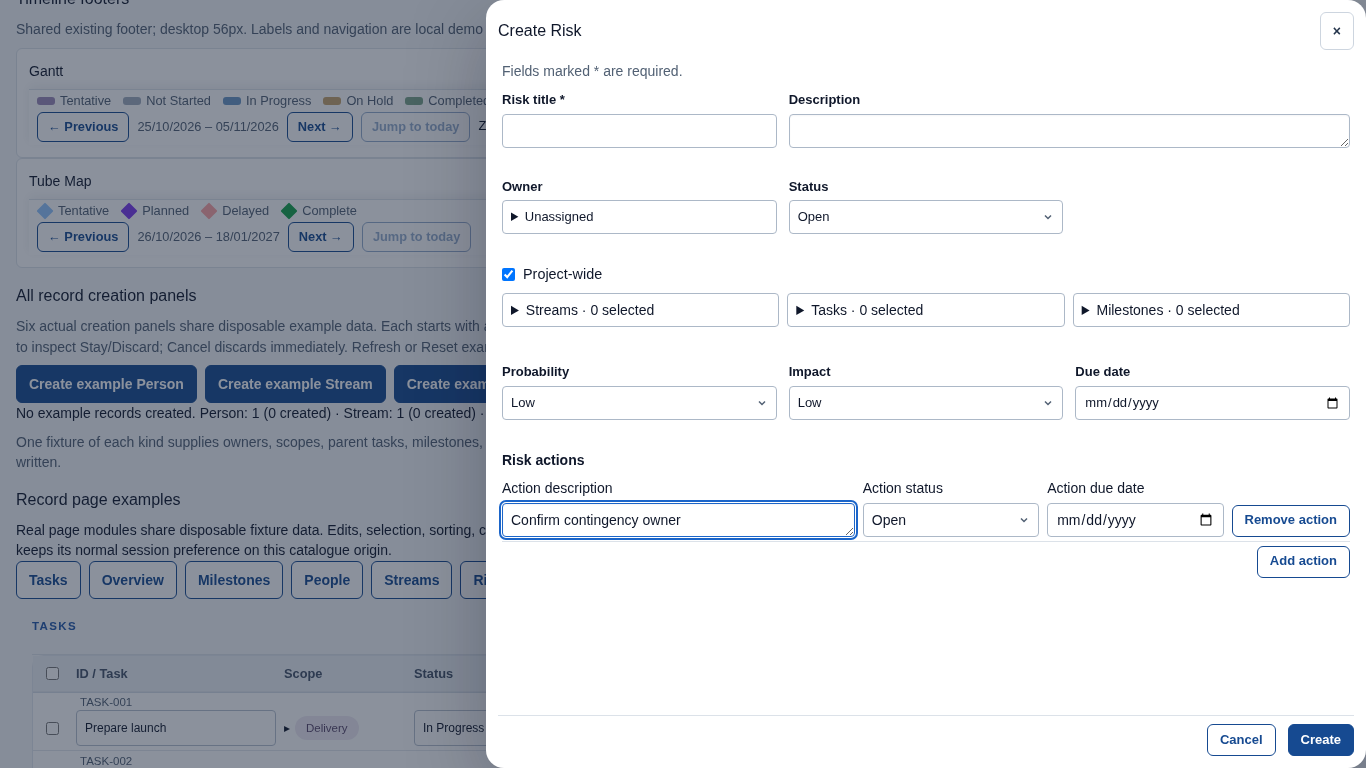
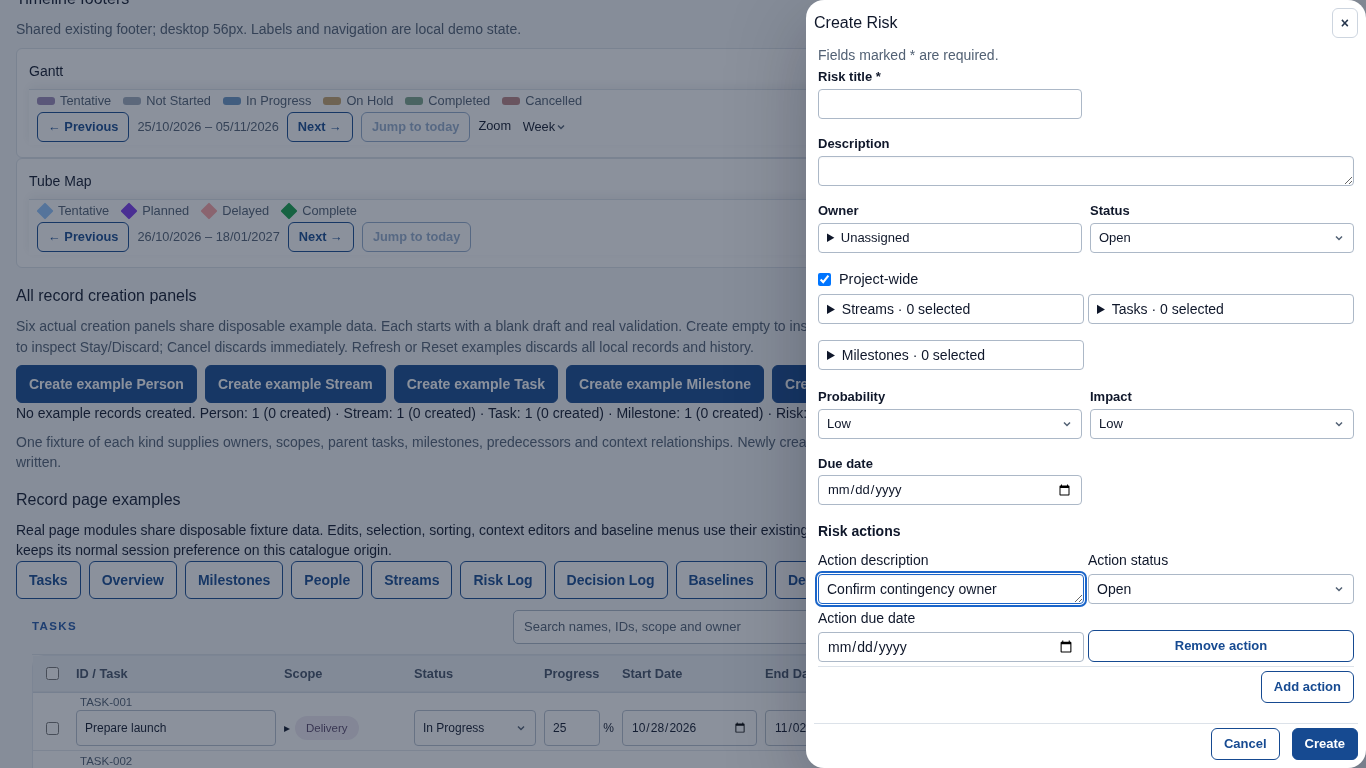
fix(ui): restore narrow creation drawer and compact field spacing

diff --git a/src/features/shared/creation-surfaces.css b/src/features/shared/creation-surfaces.css
@@ -1,22 +1,44 @@
-/* Creation uses the existing control/font/error recipes; only structural space changes. */
+/* Original drawer footprint with the existing embedded-control density. */
 .dialog-backdrop.creation-backdrop>section {
- width:min(880px,100vw);
- padding:var(--space-3);
+ width:min(560px,100vw);
+ padding:var(--space-2);
 }
 .dialog-backdrop.creation-backdrop>section>header {
- margin-bottom:var(--space-2);
+ margin-bottom:var(--space-1);
  gap:var(--space-2);
 }
+.dialog-backdrop.creation-backdrop>section>header>.icon {
+ height:var(--ui-action-height);
+ min-height:var(--ui-action-height);
+ padding:var(--space-1) var(--space-2);
+}
 .dialog-backdrop.creation-backdrop .creation-fields {
+ --field-height:var(--ui-field-embedded-height);
  min-height:0;
  padding:2px 4px var(--space-1);
+ gap:2px var(--space-2);
 }
+.dialog-backdrop.creation-backdrop .creation-fields>.muted { margin:0; }
+.dialog-backdrop.creation-backdrop :is(.creation-field,.creation-selector,.creation-fields--task>.creation-relationship) { gap:2px; }
+.dialog-backdrop.creation-backdrop .creation-fields .form-field-error {
+ height:auto;
+ min-height:12px;
+ line-height:12px;
+ overflow:visible;
+}
+.dialog-backdrop.creation-backdrop .creation-fields--task>.creation-selector>details>summary,
+.dialog-backdrop.creation-backdrop .creation-fields--task>.creation-relationship>details>summary {
+ height:var(--field-height);
+ line-height:var(--field-text-line);
+}
+.dialog-backdrop.creation-backdrop .creation-fields--task>.creation-selector>details:has(>summary .scope-pill)>summary { padding-block:3px; }
+.dialog-backdrop.creation-backdrop .creation-relations { gap:var(--space-1); padding-bottom:var(--space-1); }
 .dialog-backdrop.creation-backdrop .creation-footer {
  display:grid;
  grid-template-columns:minmax(0,1fr) auto;
  align-items:center;
  gap:var(--space-2);
- padding-top:var(--space-2);
+ padding-top:var(--space-1);
 }
 .dialog-backdrop.creation-backdrop .creation-footer>.actions { margin:0; }
 .dialog-backdrop.creation-backdrop .creation-actions {
@@ -24,21 +46,23 @@
  gap:var(--space-1);
  align-items:center;
 }
+.dialog-backdrop.creation-backdrop .creation-action {
+ grid-template-columns:repeat(2,minmax(0,1fr));
+ align-items:end;
+ gap:var(--space-1);
+ padding:var(--space-1) 0;
+}
+.dialog-backdrop.creation-backdrop .creation-action>label:first-child { grid-column:auto; }
 .dialog-backdrop.creation-backdrop .creation-actions>strong { grid-column:1; grid-row:1; }
 .dialog-backdrop.creation-backdrop .creation-actions>button { grid-column:2; }
 .dialog-backdrop.creation-backdrop .creation-actions>.creation-action,
 .dialog-backdrop.creation-backdrop .creation-actions>.form-field-error { grid-column:1/-1; }
-@media(min-width:800px) {
- .dialog-backdrop.creation-backdrop .creation-fields,
- .dialog-backdrop.creation-backdrop .creation-relations { grid-template-columns:repeat(3,minmax(0,1fr)); }
- .dialog-backdrop.creation-backdrop .creation-field--description { grid-column:span 2; }
- .dialog-backdrop.creation-backdrop .creation-action {
-  grid-template-columns:minmax(0,2fr) repeat(2,minmax(0,1fr)) auto;
-  align-items:end;
-  padding:var(--space-1) 0;
- }
- .dialog-backdrop.creation-backdrop .creation-action>label:first-child { grid-column:auto; }
+.dialog-backdrop.creation-backdrop .creation-fields--risk>.creation-actions:not(:has(.creation-action)) {
+ grid-column:auto;
+ grid-template-columns:minmax(0,1fr);
+ gap:2px;
 }
+.dialog-backdrop.creation-backdrop .creation-fields--risk>.creation-actions:not(:has(.creation-action))>button { grid-column:1; grid-row:2; }
 @media(max-width:480px) {
  .dialog-backdrop.creation-backdrop .creation-footer { grid-template-columns:minmax(0,1fr); gap:var(--space-1); }
 }

diff --git a/e2e/layout/extended.spec.ts b/e2e/layout/extended.spec.ts
@@ -25,7 +25,7 @@ for(const {width,height} of [{width:1024,height:1000},{width:1440,height:1000},{
  const originalCenter=await searchCenter(page,'.shared-search-filter');
  await page.getByRole('button',{name:'Add Task',exact:true}).click();await expect(page.getByRole('dialog',{name:'Create Task',exact:true})).toBeVisible();
  const standalone=await panelMetrics(page);
- // Legacy optional 560px/two-column work snapshots predate the approved reflow.
+ // Legacy optional snapshots predate the approved compact 30px creation recipe.
  // The complete live standalone metrics remain the exact Extended reference.
  const assertFits=async()=>{
   const fit=await page.getByRole('dialog',{name:'Create Task',exact:true}).evaluate(panel=>{
@@ -49,18 +49,16 @@ for(const {width,height} of [{width:1024,height:1000},{width:1440,height:1000},{
  await mode.getByRole('button',{name:'Simple',exact:true}).click();await expect(page.locator('.gantt-tasks-pane')).toBeHidden();await extended(page);await expect(ganttSearch).toHaveValue('Regression');await expect(taskSearch).toHaveValue('TASK-001');await ganttSearch.fill('');await taskSearch.fill('');
  await page.locator('.gantt-tasks-pane').getByRole('button',{name:'Add Task',exact:true}).click();const panel=page.getByRole('dialog',{name:'Create Task',exact:true});await expect(panel).toBeVisible();
  const actual=await panelMetrics(page);expect(actual).toEqual(standalone);
- const groups=[['Owner','Status','Priority'],['Start date','End date','Scope'],['Parent task','Milestone','Progress']] as const;
+ const pairs=[['Owner','Status'],['Priority','Start date'],['End date','Scope'],['Parent task','Milestone'],['Progress','Predecessor tasks']] as const;
  const box=async(label:string)=>panel.locator('input,select,summary').filter({visible:true}).evaluateAll((controls,name)=>{const control=controls.find(e=>e.getAttribute('aria-label')===name||e.textContent?.startsWith(`${name} ·`));if(!control)throw new Error(`Missing ${name}`);const r=control.getBoundingClientRect();return {x:r.x,y:r.y,width:r.width,height:r.height};},label);
  let previousRow=-Infinity;
- for(const group of groups){
-  const row=await Promise.all(group.map(box));expect(row[0].y).toBeGreaterThan(previousRow);previousRow=row[0].y;
-  for(const [index,control] of row.entries()){expect(control.y).toBeCloseTo(row[0].y,1);expect(control.height).toBe(34);expect(control.width).toBeCloseTo(row[0].width,1);if(index)expect(control.x).toBeGreaterThan(row[index-1].x+row[index-1].width);}
+ for(const [left,right] of pairs){
+  const a=await box(left),b=await box(right);expect(a.y).toBeGreaterThan(previousRow);previousRow=a.y;
+  expect(b.y).toBeCloseTo(a.y,1);expect(a.height).toBe(30);expect(b.height).toBe(30);expect(b.width).toBeCloseTo(a.width,1);expect(b.x).toBeGreaterThan(a.x+a.width);
  }
- const predecessor=await box('Predecessor tasks'),owner=await box('Owner');
- expect(predecessor.y).toBeGreaterThan(previousRow);expect(predecessor.height).toBe(34);expect(predecessor.width).toBeCloseTo(owner.width,1);expect(predecessor.x).toBeCloseTo(owner.x,1);
  await assertFits();
 
- expect(actual.panel).toMatchObject({x:width-880,y:0,width:880,height});expect(actual.backdrop).toEqual({x:0,y:0,width,height});
+ expect(actual.panel).toMatchObject({x:width-560,y:0,width:560,height});expect(actual.backdrop).toEqual({x:0,y:0,width,height});
  await expect(panel.getByLabel('Task name',{exact:true})).toBeFocused();
  await page.screenshot({path:testInfo.outputPath(`${width}-extended-add-task.png`)});
  writeFileSync(testInfo.outputPath('panel-equivalence.json'),JSON.stringify({width,height,standalone,extended:actual},null,2));

diff --git a/e2e/layout/creation-panels.spec.ts b/e2e/layout/creation-panels.spec.ts
@@ -62,7 +62,7 @@ test('conditional scope and initial Risk action validation stays associated and 
  await page.locator('nav').getByRole('button',{name:'Risk Log',exact:true}).click();await page.getByRole('button',{name:'Add Risk',exact:true}).click();const risk=page.getByRole('dialog',{name:'Create Risk',exact:true});await risk.getByLabel('Risk title',{exact:true}).fill('Risk');await risk.getByRole('button',{name:'Add action',exact:true}).click();const action=risk.getByLabel('Action description 1',{exact:true}),before=await action.boundingBox();await risk.getByRole('button',{name:'Create',exact:true}).click();await expect(action).toBeFocused();await expect(action).toHaveAttribute('aria-invalid','true');expect(await action.boundingBox()).toEqual(before);await risk.getByRole('button',{name:'Cancel',exact:true}).click();await expect(page.getByRole('button',{name:'Save Now',exact:true})).toBeDisabled();
 });
 
-for(const [width,height] of [[900,600],[1024,768],[1366,768]] as const)test(`all creation forms fit ${width} by ${height} without validation displacement`,async({page})=>{
+for(const [width,height] of [[560,600],[900,600],[1024,768],[1366,768]] as const)test(`all creation forms fit ${width} by ${height} without validation displacement`,async({page})=>{
  await page.setViewportSize({width,height});await setup(page);
  for(const [moduleName,entity,,label] of cases){
   await page.locator('nav').getByRole('button',{name:moduleName,exact:true}).click();
@@ -77,6 +77,10 @@ for(const [width,height] of [[900,600],[1024,768],[1366,768]] as const)test(`all
    });
    expect(geometry.scrollHeight,`${entity} fields fit vertically`).toBeLessThanOrEqual(geometry.clientHeight+1);
    expect(geometry.scrollWidth,`${entity} fields fit horizontally`).toBeLessThanOrEqual(geometry.clientWidth+1);
+   const columns=await fields.evaluate(element=>getComputedStyle(element).gridTemplateColumns.trim().split(/\s+/));
+   expect(columns,`${entity} desktop creation retains two columns`).toHaveLength(2);
+   const singleLine=await fields.locator('input:not([type=checkbox]):not([type=radio]),select,summary').evaluateAll(elements=>elements.filter(element=>!element.closest('.multi-select-options,.relationship-options')&&element.getClientRects().length>0).map(element=>({name:element.getAttribute('aria-label')||element.textContent||element.tagName,height:element.getBoundingClientRect().height})));
+   for(const control of singleLine)expect(control.height,`${entity}: ${control.name} compact height`).toBe(30);
    for(const control of geometry.controls){
     expect(control.top,`${entity}: ${control.name} top`).toBeGreaterThanOrEqual(geometry.box.top-1);
     expect(control.bottom,`${entity}: ${control.name} bottom`).toBeLessThanOrEqual(geometry.box.bottom+1);

diff --git a/e2e/layout/compact-rhythm.spec.ts b/e2e/layout/compact-rhythm.spec.ts
@@ -72,7 +72,9 @@ test('boxed fields reuse a centered internal text band across pages and sizes',a
  await nav(page,'Tasks');await page.getByRole('button',{name:'Add Task',exact:true}).click();
  const panel=page.locator('.creation-fields--task');
  for(const field of await panel.locator('input:not([type=checkbox]):not([type=radio]),select,.predictive-select>summary:not(:has(.scope-pill)),.relationship-picker>summary').all()){
-  await expect(field).toHaveCSS('line-height','20px');await expect(field).toHaveCSS('padding-left','8px');await expect(field).toHaveCSS('height','34px');
+  const popupSearch=await field.evaluate(e=>Boolean(e.closest('.multi-select-options,.relationship-options')));
+  await expect(field).toHaveCSS('line-height','20px');await expect(field).toHaveCSS('padding-left','8px');await expect(field).toHaveCSS('height',popupSearch?'34px':'30px');
+  if(!popupSearch&&await field.evaluate(e=>e.tagName!=='SUMMARY'))await expect(field).toHaveCSS('font-size','13px');
  }
  await page.screenshot({path:info.outputPath('shared-field-text-create-task.png')});
 });

diff --git a/docs/UI_TOKEN_INVENTORY.md b/docs/UI_TOKEN_INVENTORY.md
@@ -16,7 +16,7 @@ Date: 28 October 2026. Authority: [project requirements](PROJECT_REQUIREMENTS.md
 | Spacing scale | Keys `1,2,3,4,6,8,12,16` map to `4,8,12,16,24,32,48,64px`. | `--ui-space-*` feeds the existing `--space-*` design-system aliases. Matching local literals are not automatically consumers. |
 | Baseline radii | Control `6px`, card `8px`, dialog `12px`. | `--ui-radius-*` feeds the corresponding `--radius-*` aliases in design-system.css. Applied theme radii may differ. |
 | Action metrics | Height `30px`, radius `6px`, block/inline insets `2px/10px`, weight `600`, unitless line height `1.1`, font `var(--type-control)`. | `--ui-action-*` feeds the existing action aliases and the unified action declaration in [globals.css](../src/app/globals.css). [ActionButton](../src/features/shared/action-button.tsx) preserves native markup and contextual styling. |
-| Editable fields | Regular `36px`, creation `34px`, embedded `30px`; internal text line `20px`, horizontal inset `8px`. | `--ui-field-*` feeds the field aliases and contexts in [field-surfaces.css](../src/features/shared/field-surfaces.css). Derived padding and multiline exceptions remain explicit. |
+| Editable fields | Regular `36px`, creation base `34px`, embedded/compact `30px`; the owner-corrected record drawer uses the compact variant. Internal text line `20px`, horizontal inset `8px`. | `--ui-field-*` feeds the field aliases and contexts in [field-surfaces.css](../src/features/shared/field-surfaces.css). Derived padding and multiline exceptions remain explicit. |
 | Timeline footer | Minimum `56px`. | `--ui-timeline-footer-min-height` belongs to [timeline-surfaces.css](../src/features/shared/timeline-surfaces.css). Narrow wrapping can increase height. An unrelated header with the same number is a different role. |
 | Task status palette | Tentative `#9d8ab8`; Not Started `#a0adbd`; In Progress `#6b97c4`; On Hold `#c4a36c`; Completed `#7ca58a`; Cancelled `#bb8585`. | Generated status variables and the unchanged public exports in [timeline-status.tsx](../src/features/shared/timeline-status.tsx) share the JSON source. |
 | Milestone status palette | Tentative `#93c5fd`; Planned `#7c3aed`; Delayed `#fca5a5`; Complete `#16a34a`. | Separate milestone roles and exports remain in timeline-status.tsx. Identical status names across domains do not imply identical colors. |
@@ -26,7 +26,7 @@ Date: 28 October 2026. Authority: [project requirements](PROJECT_REQUIREMENTS.md
 | Context | Preserved distinction and owner |
 | --- | --- |
 | Theme surfaces | [heroui-experiment.css](../src/app/heroui-experiment.css) retains its navigation, header, card and dialog treatment, including card radius `16px` and dialog radius `18px`. Baseline radii are not a directive to replace these. |
-| Density and multiline fields | Regular/creation/embedded heights remain separate. [Risk editor surfaces](../src/features/risks/risk-editor-surfaces.css) retain compact editor spacing; the same Risk stylesheet retains the multiline `50px` field override. Generic multiline fields retain their own minimum and content behavior. [Creation surfaces](../src/features/shared/creation-surfaces.css) reflow forms and structural space for viewport fit without new font sizes or token changes. |
+| Density and multiline fields | Regular/creation/embedded heights remain separate. [Risk editor surfaces](../src/features/risks/risk-editor-surfaces.css) retain compact editor spacing; the same Risk stylesheet retains the multiline `50px` field override. Generic multiline fields retain their own minimum and content behavior. [Creation surfaces](../src/features/shared/creation-surfaces.css) retain the original560px footprint and compact structural space, reusing30px embedded controls without new font sizes or tokens. Creation messages use a12px minimum with natural expansion. |
 | Headings and chart labels | [table-headings.css](../src/features/shared/table-headings.css) owns shared column typography and its `20px` label band. Row/heading geometry, module title tracking and fluid chart labels remain in their existing layout/theme rules; no font rounding or scale merging occurred. |
 | Color meaning | Scope palettes in [scope-pill.tsx](../src/features/shared/scope-pill.tsx), severity treatments, navigation colors, baseline variance and dependency focus colors retain independent meanings. Core primary/focus colors are not replacements for those palettes. |
 | Native controls | Browser/OS calendars, select menus, native title tooltips and platform focus details retain native behavior. Linux browser evidence does not establish physical Mac/Windows appearance. |

diff --git a/docs/UI_STANDARD_MIGRATION_PLAN.md b/docs/UI_STANDARD_MIGRATION_PLAN.md
@@ -248,3 +248,13 @@ Eighteen before/after samples at1366×768,1024×600 and900×700 retain exact lab
 Full `validate:pr` passed:489unit cases14.37s, typecheck1.53s, lint5.3s, build11.74s,245/245 lifecycle checkpoints73s,137 production browser cases206.85s. Evidence: work/validation-2026-10-29T16-14-54.803Z and work/creation-fit-full-pr-final.log. A preliminary run was intentionally stopped for the Risk action focus-order correction, then the complete gate reran on the final source. All19 catalogue cases passed on a clean preview build in38.2s (work/creation-fit-catalogue-clean.log). The development preview had retained a removed CSS grid-row declaration in its cache; clearing only its ignored build output corrected the preview, while the fresh production build already passed the explicit order check. Independent review found no remaining blockers. Documentation-only evidence updates followed the green gates.
 
 [Task/Risk screenshot evidence](media/creation-fit/README.md) uses actual shared components with disposable data in Linux Chromium; native Mac acceptance remains an owner check. The fix is reviewable in the existing draft PR, with no merge/release/deployment included.
+
+## 25. Restore the original creation footprint and compact vertical spacing — 29 October 2026
+
+The owner rejects the widened880px/three-column version. This correction restores the original maximum560px drawer, two main columns, full-width descriptions and original Task field pairs. It reuses the existing30px embedded/Extended field metric without changing any font size, and reduces structural gaps instead of covering more screen area. Blank field messages have a12px minimum with natural height and visible overflow for real error text; messages/IDs/roles are not removed. The empty Risk actions group shares the last row with Due date, then expands full-width for an actual list. Initial Risk action details use two compact columns; header/footer stay visible and expanded/mobile content can scroll only in fields.
+
+The final18form samples retain the existing13px label font/18.85px line while field rows compact from~85px to~65px. All six initial forms fit at1366×768/1024×600/900×700 in the diagnostic comparison. Production checks add560×600 to the existing900×600/1024×768/1366×768 matrix, enforce560px/two columns and30px visible controls, retain invalid/error and footer stability, and keep strict one-action Risk fit at768px. Exact standalone/Extended metrics remain verified at all four entry-point widths. Full-width descriptions and original pair grouping replace the rejected three-column expectations; no command or persisted data changed.
+
+Validation:10targeted geometry/parity cases passed in20.3s. The full PR run passed489unit cases14.16s, typecheck1.56s, lint4.74s, build10.95s and245/245 lifecycle checkpoints72.47s. Its browser stage passed137of138cases; the remaining older field-band test assumed every creation descendant was34px. That test now distinguishes30px compact record controls from unchanged34px popup search fields, while retaining20px text band/8px inset and asserting13px record-input text. The corrected case passed in a focused3.7s run, so all138unique production cases are green on the same product source; the failed full command is not represented as a clean all-in-one rerun. No production code changed after it, and unrelated passing checks were not repeated. Affected-test lint and final typecheck also passed. Logs: work/validation-2026-10-29T16-48-00.679Z, work/creation-compact-full-pr.log and work/creation-compact-field-contract-final.log. All19catalogue cases passed in38.6s (work/creation-compact-catalogue.log).
+
+The screenshots in [current compact evidence](media/creation-fit/README.md) replace the rejected wider images and include the restored footprint at1366×768. Requirements, architecture, contracts, token exceptions and style ownership now describe560px/compact30px rather than recommending the rejected layout. Native Mac owner acceptance remains pending; no merge/release/deployment occurred.

diff --git a/docs/UI_STYLE_OWNERSHIP.md b/docs/UI_STYLE_OWNERSHIP.md
@@ -13,7 +13,7 @@ This is a maintenance map, not approval to change appearance. [Project requireme
 | Human-readable text behavior | [HumanTextInput / HumanTextArea](../src/features/shared/human-text.tsx), [normalization](../src/features/shared/text-normalisation.ts) | Reuse human-text handling for human content; preserve technical identifiers, dates, URLs and command boundaries. |
 | Field geometry | Token source plus [shared field surfaces](../src/features/shared/field-surfaces.css), with compact Risk variants in [Risk editor surfaces](../src/features/risks/risk-editor-surfaces.css) | Existing regular/creation/embedded variants and text metrics remain unchanged. Multiline, scope-pill and native-date exceptions are not single-line fields to normalize. |
 | Tables, heading cells and sort behavior | [FitTable](../src/features/shared/fit-table.tsx), [sorting](../src/features/shared/sorting.ts), [shared table headings](../src/features/shared/table-headings.css) and viewport layout/panel CSS | Preserve native table markup and direct heading traversal. Module renderers own column content, selection state and sort values; shared rules own the established heading presentation. |
-| Creation viewport layout | [Creation surfaces](../src/features/shared/creation-surfaces.css), [EntityCreationPanel](../src/features/shared/entity-creation-panel.tsx) | Wider responsive field/relationship grids and compact structural padding preserve fonts, 34px controls, error slots and field order. Initial desktop forms fit; narrow/expanded content scrolls only inside the field body, with header/footer visible. |
+| Creation viewport layout | [Creation surfaces](../src/features/shared/creation-surfaces.css), [EntityCreationPanel](../src/features/shared/entity-creation-panel.tsx) | Original560px/two-column footprint with compact structural gaps, existing30px controls and unchanged fonts/field order. Message slots start at12px and grow for actual errors. Initial desktop forms fit; narrow/expanded content scrolls only inside the field body, with header/footer visible. |
 | Page title/search composition | [PageToolbar](../src/features/shared/page-toolbar.tsx), [ModuleSearch](../src/features/shared/module-search.tsx), viewport layout/panel CSS and [dropdown search input](../src/features/shared/search-input.css) | Search centering is independent of action width. Modules supply filters/actions and control state; they do not create alternative search-panel geometry. |
 | Checkbox/radio option rows | [ChoiceRow](../src/features/shared/choice-row.tsx), [FilterChoices](../src/features/shared/record-filters.tsx) | Native semantics and existing context styles remain. Tasks/Milestones reuse this for toolbar toggles and scope/dependency options; caller-owned keys, label titles and cycle/deletion guards remain intact. This is not the table select-all/indeterminate recipe. |
 | Searchable selectors | [PredictiveSelect](../src/features/shared/predictive-select.tsx), [owner adapter](../src/features/shared/searchable-owner-select.tsx), [RelationshipPicker](../src/features/shared/relationship-picker.tsx), [SearchableOptionList](../src/features/shared/searchable-option-list.tsx) | Reuse the existing single/multiple selection behavior; keep option IDs, radio grouping, deleted choices, accessible labels and close/refocus policy with the adapter. |

diff --git a/docs/UI_COMPONENT_CONTRACTS.md b/docs/UI_COMPONENT_CONTRACTS.md
@@ -31,7 +31,7 @@ Values below are existing contracts or audited compatibility variants, not a new
 | Module title | 11.52px, weight 700, uppercase, `.12em` tracking, `#2459a9`. |
 | Column title | 12.8px/20px, weight 700, text `#445268`, background `#edf1f5`; 36px heading band. |
 | Single-line internal band | 20px line height, 8px horizontal inset, weight 400. Vertical padding derives from outer height and borders. |
-| Regular / creation / compact field | 36 / 34 / 30px. Preserve creation separately; do not silently reduce three variants to two. |
+| Regular / creation / compact field | Base tokens36 /34 /30px remain distinct. The owner-corrected record creation drawer explicitly reuses compact30px; this does not remove the34px base role. |
 | Main action | 30px height, 12.8px text, weight 600, 6px radius, `2px 10px` padding. Existing secondary context sizes remain documented variants. |
 | Module Search | 340px preferred width, 34px height, 13px text; existing centered placement and narrow second-row fallback. |
 | Timeline footer | 56px desktop minimum, 30px actions, 18px legend row, `2px 8px` outer padding; complete bottom boundary without extra Tube Map padding/borders. |
@@ -225,4 +225,4 @@ Overview header/quick actions and Project Details Cancel/Done use ActionButton; 
 
 Compact Risk context/actions and their multiline exception are owned by [Risk editor surfaces](../src/features/risks/risk-editor-surfaces.css), imported after late panels. This is a Risk-specific compatibility asset; Decision keeps its existing sizing. Resources/Risk/Decision Show Deleted labels now reuse ChoiceRow while table selection stays separate.
 
-Creation viewport fit is owned by [creation-surfaces.css](../src/features/shared/creation-surfaces.css). Desktop drawers share an 880px maximum width and three-column field/context layout; Description spans two columns without changing DOM order. Compact shell/footer spacing uses existing spacing tokens. Fonts, 34px controls and 24px field error slots stay unchanged. Task standalone/Extended metrics must match exactly. Narrow screens or expanded content scroll inside fields while the header and actions remain visible.
+Creation viewport fit is owned by [creation-surfaces.css](../src/features/shared/creation-surfaces.css). Drawers retain the original560px maximum width and two-column main field layout, including full-width descriptions and original Task field pairs. Compact shell/footer spacing uses existing spacing tokens. Fonts stay unchanged; controls reuse the existing30px embedded recipe. Blank message slots have a12px minimum and grow naturally for real messages without clipping. Task standalone/Extended metrics must match exactly. Narrow screens or expanded content scroll inside fields while the header and actions remain visible.

diff --git a/docs/PROJECT_REQUIREMENTS.md b/docs/PROJECT_REQUIREMENTS.md
@@ -2119,3 +2119,7 @@ Timeline focus correction: dependency connectors in Gantt and Tube Map are dotte
 ## Approved creation-panel viewport-fit correction — 29 October 2026
 
 Owner Mac screenshots show Task/Risk creation content requiring scrolling and excessive structural whitespace. Record Add/Create panels must fit their initial complete forms and Create/Cancel actions in ordinary desktop viewports, including short laptop windows. Reuse the existing font tokens and control/error metrics; do not introduce a smaller font. Reflow fields and relationships into a wider responsive grid and reduce structural padding/gaps instead. Apply one shared recipe to all six record kinds and the identical standalone/Extended Task entry points. Preserve every field, required/optional semantics, DOM/keyboard order, validation association/reserved space, native controls, dirty dismissal, canonical creation commands and Undo/PMP behavior. This supersedes the earlier exact 560px drawer/two-column geometry and pair-based Task alignment only where necessary for viewport fit. Narrow screens and user-expanded multiline/arbitrary initial Risk-action content may scroll within the field body; header and submit/cancel actions must remain visible and no content may be clipped or hidden to simulate fitting.
+
+## Owner correction — retain the original creation drawer footprint — 29 October 2026
+
+The owner rejects the 880px/three-column creation reflow as too wide and too empty. Restore the original maximum560px drawer and two-column main field layout. Keep descriptions full-width and original Task field pairs. Fit content by reducing inter-field/structural whitespace and reusing the existing30px embedded/Extended control recipe, with unchanged existing font sizes. Creation message slots use a compact12px minimum and expand naturally for actual messages rather than clipping or hiding them; IDs, announcements and validation behavior remain unchanged. The empty Risk actions group may sit beside Due date, expanding across the form when actions exist. Preserve all fields and visible Create/Cancel, exact standalone/Extended parity, native behavior, dismissal, commands and persistence. This supersedes the earlier29October permission to widen the drawer or use three main columns; narrow screens and genuinely expanded lists keep content-only scrolling.

diff --git a/docs/media/creation-fit/README.md b/docs/media/creation-fit/README.md
@@ -1,8 +1,11 @@
-# Creation viewport-fit evidence — 29 October 2026
+# Compact creation evidence — 29 October 2026
 
-These Linux Chromium screenshots show the actual shared production creation component in the isolated catalogue with disposable fixture data. They are not physical macOS/Windows acceptance evidence.
+The owner rejected the wider880px version. These current screenshots restore the original560px maximum drawer and two main columns, using existing30px embedded controls and unchanged fonts. Blank message gaps start at12px; actual messages expand without clipping. Descriptions remain full-width and Task field pairs retain their original order.
 
-- [Task at900×600](task-900x600.png): all initial controls and Create/Cancel visible without scrolling.
-- [Risk at1366×768 with one action](risk-1366x768.png): relationship controls, action details and footer visible; Add action follows the existing action in visual/keyboard order.
+These are actual shared creation components in the isolated catalogue with disposable fixture data, captured in Linux Chromium. They are not physical macOS/Windows acceptance evidence.
 
-The new creation recipe changes structural padding, maximum width and grid arrangement only. Fonts, native control metrics, error slots, validation and canonical commands remain unchanged. Production browser checks additionally cover six forms at900×600/1024×768/1366×768, error stability, one Risk action and its popup/focus behavior, many-action/mobile overflow, and exact standalone/Extended Task parity.
+- [Task at1366×768](task-1366x768.png): the restored narrow footprint occupies the same screen width as the original drawer.
+- [Task at900×600](task-900x600.png): all initial controls and Create/Cancel fit without scrolling.
+- [Risk at1366×768 with one action](risk-1366x768.png): compact two-column action details remain visible with the footer. Add action follows the list in visual/keyboard order.
+
+Production checks cover all six forms at560×600/900×600/1024×768/1366×768, blank/invalid stability, one Risk action, dropdown/focus, expanded-list/mobile scrolling and exact standalone/Extended Task parity. No field, validation or canonical command is removed to fit the drawer.

diff --git a/docs/ARCHITECTURE.md b/docs/ARCHITECTURE.md
@@ -500,4 +500,4 @@ Universal table/Gantt/Tube Map headings and Baselines control/menu/manager surfa
 
 The [initial token inventory](UI_TOKEN_INVENTORY.md) bounds canonical compatibility roles: core colors, two separate typography scales, spacing/radius, action and field/footer metrics, and distinct task/milestone palettes. Generated variables feed aliases at their established cascade positions. Component/theme exceptions remain explicit; canonicalization neither normalizes appearance nor requires replacing every literal.
 
-The 29 October creation viewport-fit correction replaces the historical narrow/two-column geometry through shared creation-surfaces.css. The same portalled component now uses a wider responsive grid and token-based structural spacing, with form errors beside footer actions on desktop. All font/control/error recipes, canonical commands and shared standalone/Extended behavior remain intact. Narrow or expanded content scrolls only in the field body.
+The owner-corrected29October creation layout retains the original560px maximum drawer and two-column main grid through shared creation-surfaces.css. It reuses existing30px embedded controls and compact structural gaps, with unchanged fonts and naturally expanding error messages. Descriptions stay full-width, Task field pairs retain their original order, and standalone/Extended panels share identical metrics. The rejected880px/three-column reflow is not part of the current layout. Narrow or expanded content scrolls only within fields while header/footer actions stay visible; canonical commands and persistence are unchanged.

diff --git a/src/ui/README.md b/src/ui/README.md
@@ -49,3 +49,5 @@ Only proven superseded declarations have been removed. Earlier layout/theme rule
 Core colors live under `coreColor`; the generator emits `--ui-color-*`. Keep the existing `--canvas`, `--primary`, `--focus` and other compatibility aliases at their original design-system cascade positions. This exports existing values: it does not merge status/scope/severity/dependency palettes or replace matching local color literals.
 
 Typography keeps `typography.app` (`--ui-type-*`) and `typography.baseline` (`--ui-text-*`) separate. Existing `--type-page-title` still references caption. Action font retains its `var(--type-control)` reference; action height/radius/insets/weight/line-height are distinct roles from fields and general spacing. Keep compatibility aliases at their original source positions and regenerate after source edits.
+
+The owner-corrected creation drawer retains560px and uses the existing embedded30px density; the canonical creation34px base token remains available, but this compact variant overrides its alias. Fonts are unchanged. Creation messages use a12px minimum and expand for actual text.
